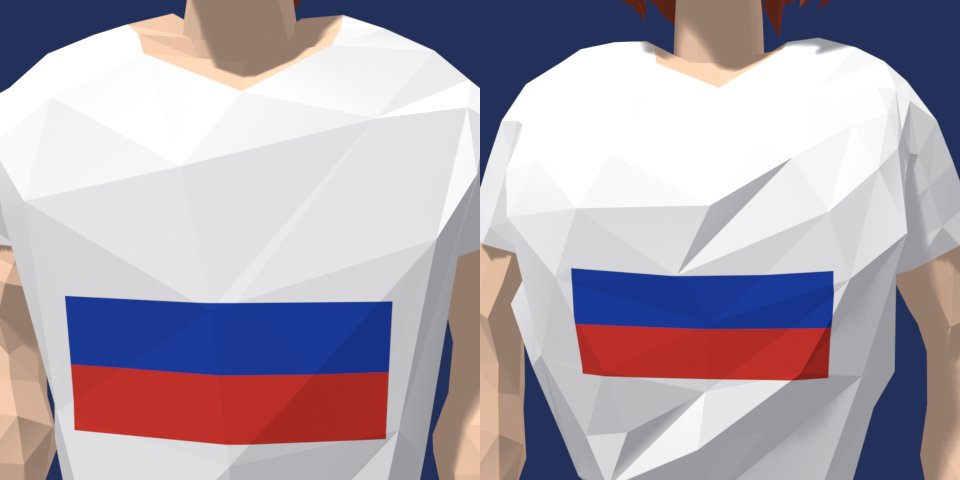
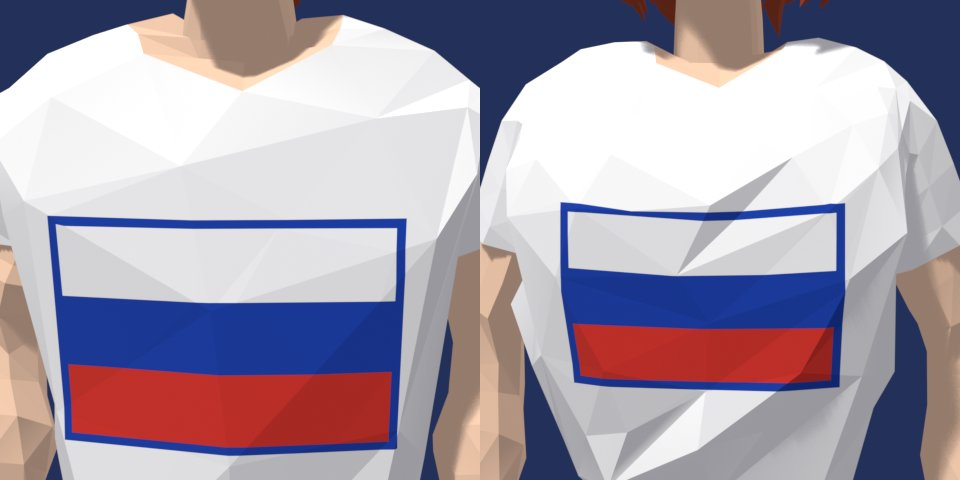
Wardrobe Packs: Russia's flag top border

Changed region(s): [[0.0312, 0.4375, 0.4375, 0.9688], [0.5625, 0.4062, 0.9062, 0.8438]]

diff --git a/wardrobe-packs/index.html b/wardrobe-packs/index.html
@@ -299,9 +299,9 @@ ol.next { padding-left: 22px; }
   <h3>Russia</h3>
   <figure><a href="img/country_ru_front.jpg"><img src="img/country_ru_front.jpg" alt="Russia outfit on the man and the woman, front" loading="lazy"></a></figure>
   <div class="shots"><figure><a href="img/country_ru_back.jpg"><img src="img/country_ru_back.jpg" alt="Russia outfit, three-quarter back" loading="lazy"></a></figure><figure><a href="img/country_ru_close.jpg"><img src="img/country_ru_close.jpg" alt="Russia flag top close up, man and woman" loading="lazy"></a></figure></div>
-  <p>White with the blue and red bands; navy trousers, white sneakers with red.</p>
+  <p>White with the white-blue-red flag inside a border in the flag's blue, so the white band reads against the white shirt; navy trousers, white sneakers with red.</p>
   <ul>
-    <li><b><code>top_ru_flag</code></b> <span class="cols"><span><i class="sw" style="background:#F5F5F2"></i>#F5F5F2</span><span><i class="sw" style="background:#0039A6"></i>#0039A6</span><span><i class="sw" style="background:#D52B1E"></i>#D52B1E</span></span> <code>ward_top_flag_ru_m/_f</code>, 510 / 613 triangles</li>
+    <li><b><code>top_ru_flag</code></b> <span class="cols"><span><i class="sw" style="background:#F5F5F2"></i>#F5F5F2</span><span><i class="sw" style="background:#0039A6"></i>#0039A6</span><span><i class="sw" style="background:#D52B1E"></i>#D52B1E</span></span> <code>ward_top_flag_ru_m/_f</code>, 564 / 683 triangles</li>
     <li><b><code>trousers_ru_flag</code></b> <span class="cols"><span><i class="sw" style="background:#1E2A50"></i>#1E2A50</span></span> the straight cut, tinted</li>
     <li><b><code>shoes_ru_flag</code></b> <span class="cols"><span><i class="sw" style="background:#F5F5F2"></i>#F5F5F2</span><span><i class="sw" style="background:#D52B1E"></i>#D52B1E</span></span> the sneaker, recoloured</li>
   </ul>
